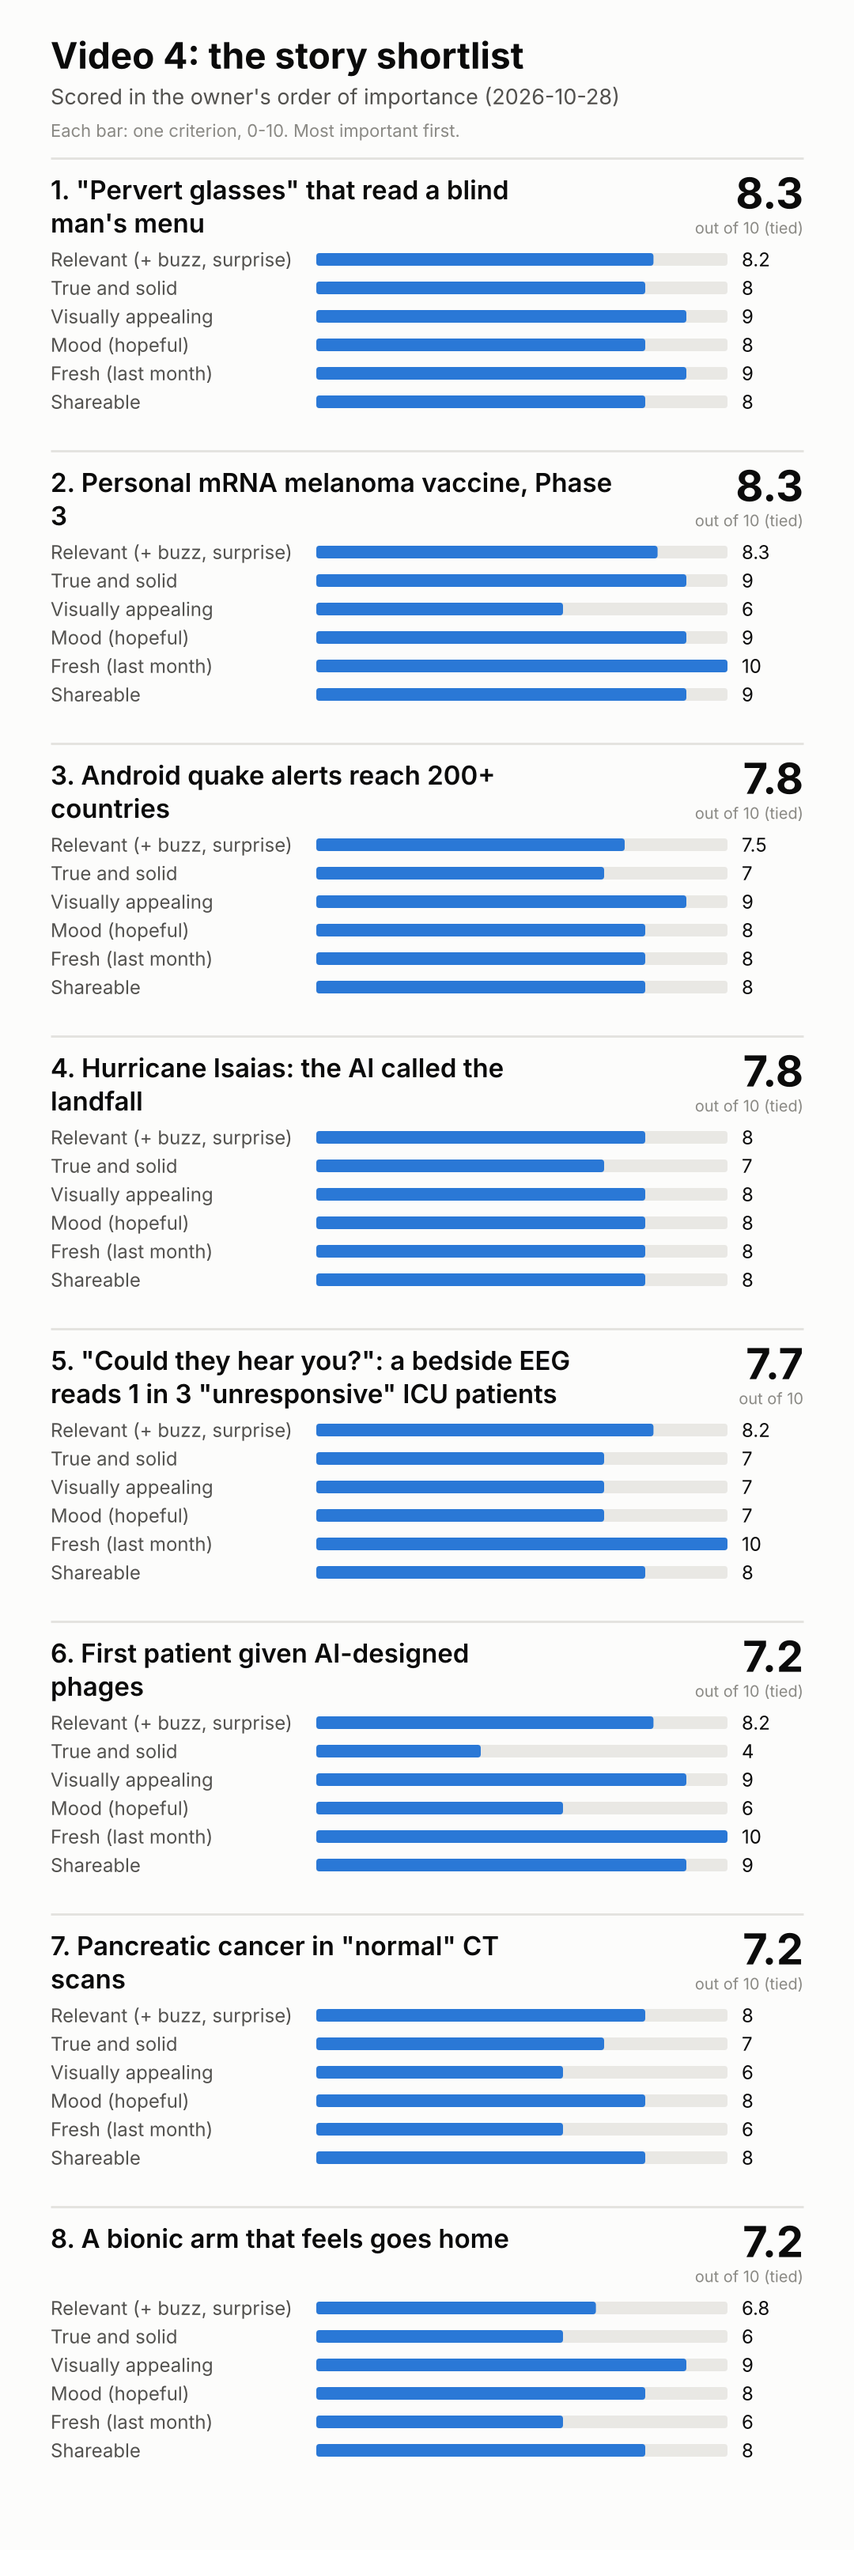
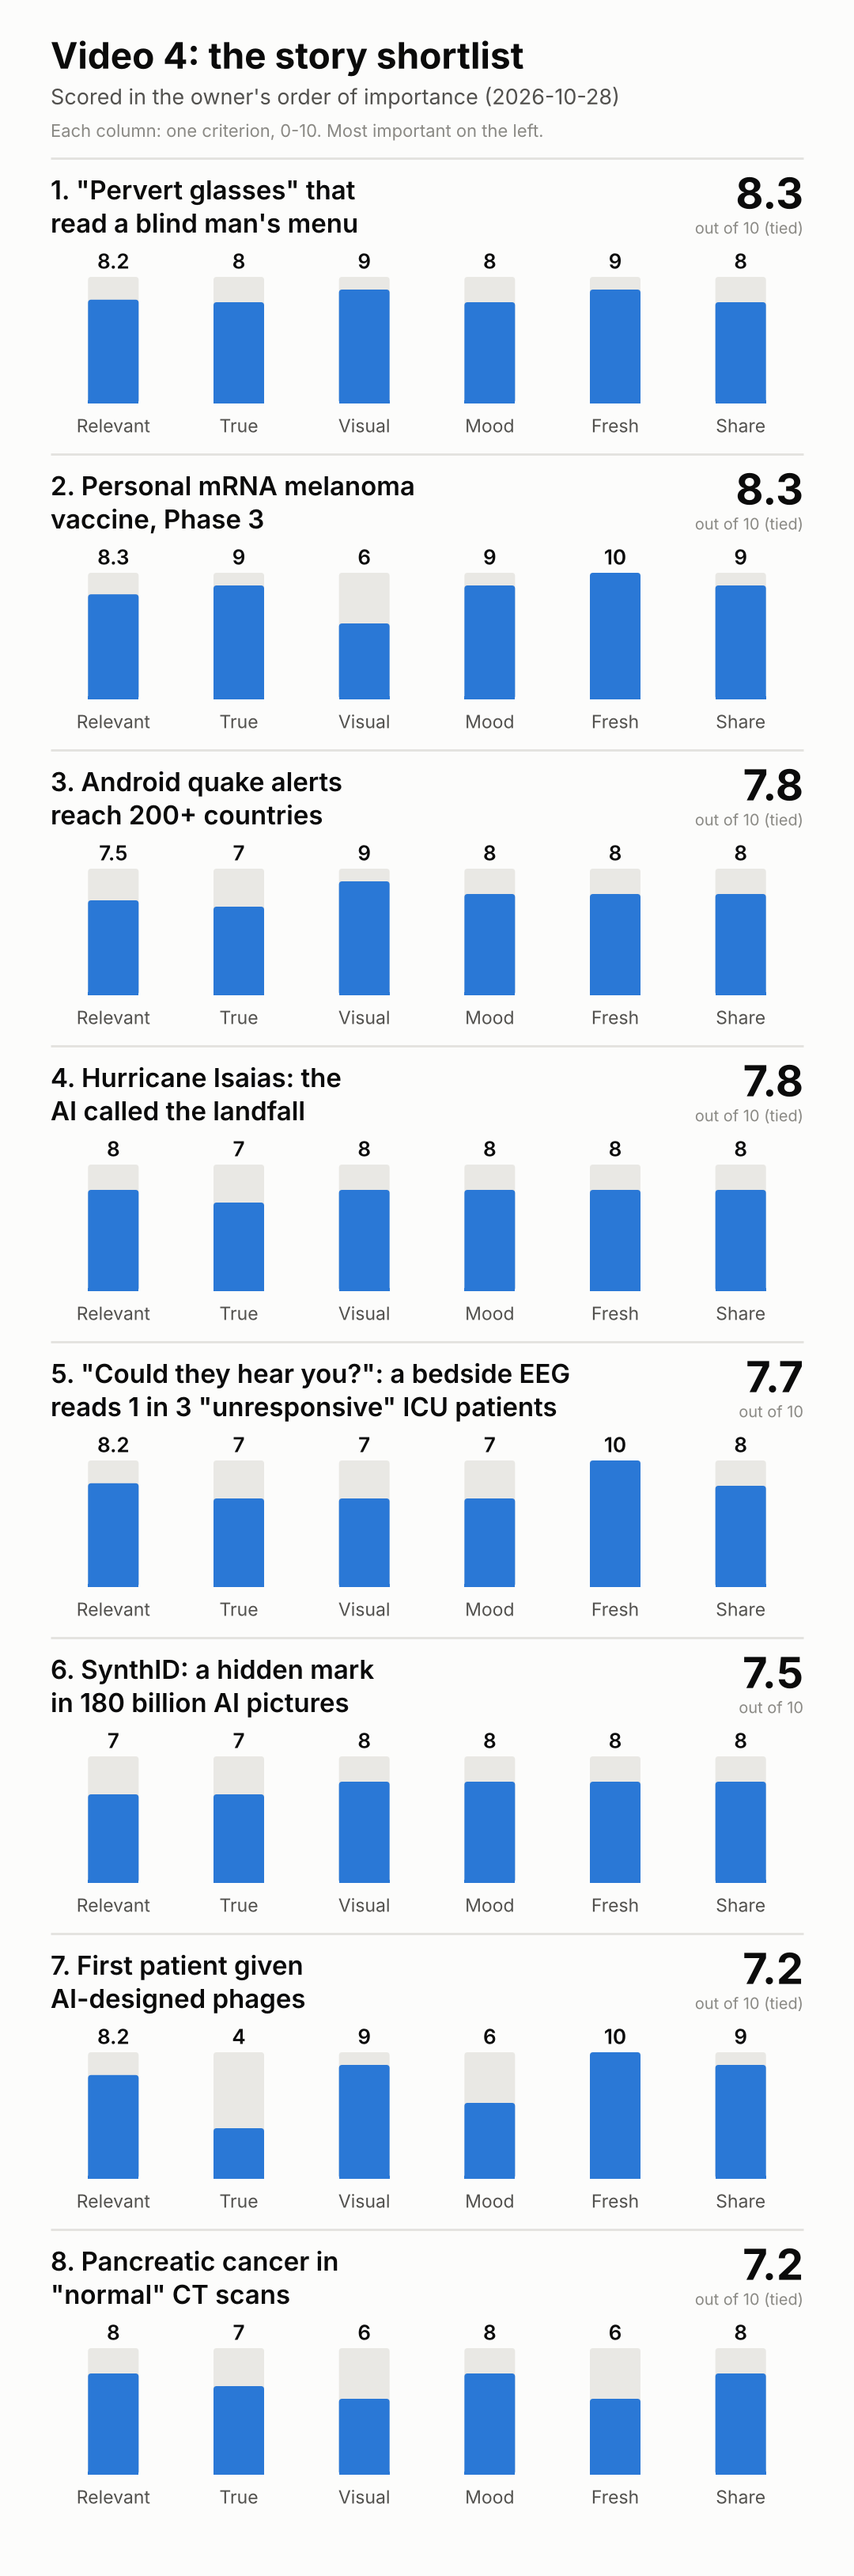
Topic chart as columns (owner: "make the visual into column chart"); v3's never-baity lesson applied to the v4 shortlist (the glasses' line reworded as news; ad-or-news check in TOPIC_CRITERIA); the owner's two Google suggestions scored (SynthID 7.48, Gemini 4 Carbon 5.90)
Claude-Session: https://claude.ai/code/session_01XBbv5cud3NnzxxSLqPjWNt

diff --git a/video/scripts/topic_chart.py b/video/scripts/topic_chart.py
@@ -1,13 +1,15 @@
 #!/usr/bin/env python3
-"""The topic shortlist as a phone-portrait chart (owner, 2026-10-28: "show me the visual next time we do research -
-like the story and some bar chart ... showing the score on each category").
+"""The topic shortlist as a phone-portrait column chart (owner, 2026-10-28: "show me the visual next time we do research -
+like the story and some bar chart ... showing the score on each category"; then "make the visual into column chart").
 
   python3 scripts/topic_chart.py docs/vN/topic_scores.json docs/vN/topic_chart.png [--top 8]
 
-The JSON: {"title", "subtitle", "criteria": [{"key", "label", "weight"}] in the order of importance,
+The JSON: {"title", "subtitle", "criteria": [{"key", "label", "short", "weight"}] in the order of importance,
 "stories": [{"rank", "name", "scores": {key: 0-10}, "total"}]}. One block per story: its name and weighted score, then
-one bar per criterion (0-10, the value printed). One series, so one colour and no legend; the criterion labels carry
-the identity. Colours from the dataviz reference palette (series-1 on the light surface, validated).
+one column per criterion, most important on the left (0-10 on a light track, the value above it, the short label
+below). A name wraps to at most two balanced lines.
+One series, so one colour and no legend; the criterion labels carry the identity. Colours from the dataviz reference
+palette (series-1 on the light surface, validated).
 """
 import json
 import sys
@@ -16,31 +18,42 @@ import textwrap
 import matplotlib
 matplotlib.use('Agg')
 import matplotlib.pyplot as plt
-from matplotlib.patches import FancyBboxPatch
+from matplotlib.patches import FancyBboxPatch, Rectangle
 
 SURFACE, INK, INK2, MUTED = '#fcfcfb', '#0b0b0b', '#52514e', '#8a8984'
 BAR, TRACK, RULE = '#2a78d6', '#e9e8e4', '#e3e2de'
 W, PAD, DPI = 1080, 64, 100
-LABEL_X, TRACK_X, TRACK_W = PAD, 400, 520
-ROW, BAR_H = 36, 16
+COL_W, PLOT_H, R = 64, 160, 4
+NAME_H, HEADROOM, FOOT = 110, 40, 64
 
 
 def pt(px):
     return px * 72 / DPI
 
 
+def column(ax, cx, base, h, colour):
+    """A column anchored to the baseline: rounded top, square bottom."""
+    h = max(h, 2 * R)
+    ax.add_patch(FancyBboxPatch((cx - COL_W / 2, base - h), COL_W, h, boxstyle=f'round,pad=0,rounding_size={R}',
+                                fc=colour, ec='none'))
+    ax.add_patch(Rectangle((cx - COL_W / 2, base - R), COL_W, R, fc=colour, ec='none'))
+
+
 def draw(data, out, top):
     crit, stories = data['criteria'], data['stories'][:top]
     blocks = []
     for s in stories:
-        lines = textwrap.wrap(f"{s['rank']}. {s['name']}", 40)
+        name = f"{s['rank']}. {s['name']}"
+        fits = [textwrap.wrap(name, w) for w in range(24, 41)]
+        fits = [ls for ls in fits if len(ls) <= 2]
+        lines = min(fits, key=lambda ls: max(map(len, ls))) if fits else textwrap.wrap(name, 40)
         if len(lines) > 2:
             lines = lines[:2]
             lines[1] = lines[1][:37].rstrip() + '...'
         blocks.append(lines)
     head = 200
-    heights = [max(len(b), 2) * 42 + 26 + len(crit) * ROW + 44 for b in blocks]
-    H = head + sum(heights) + PAD
+    block_h = NAME_H + HEADROOM + PLOT_H + FOOT
+    H = head + len(stories) * block_h + PAD
     fig = plt.figure(figsize=(W / DPI, H / DPI), dpi=DPI, facecolor=SURFACE)
     ax = fig.add_axes([0, 0, 1, 1])
     ax.set_xlim(0, W)
@@ -50,32 +63,32 @@ def draw(data, out, top):
 
     ax.text(PAD, 70, data.get('title', 'Story shortlist'), fontsize=pt(46), fontweight='bold', color=INK, va='center', **font)
     ax.text(PAD, 122, data.get('subtitle', ''), fontsize=pt(27), color=INK2, va='center', **font)
-    ax.text(PAD, 165, 'Each bar: one criterion, 0-10. Most important first.', fontsize=pt(22), color=MUTED,
+    ax.text(PAD, 165, 'Each column: one criterion, 0-10. Most important on the left.', fontsize=pt(22), color=MUTED,
             va='center', **font)
 
+    slot = (W - 2 * PAD) / len(crit)
     y = head
-    for s, lines, h in zip(stories, blocks, heights):
+    for s, lines in zip(stories, blocks):
         ax.plot([PAD, W - PAD], [y, y], color=RULE, lw=2, solid_capstyle='butt')
-        ty = y + 40
         for i, ln in enumerate(lines):
-            ax.text(PAD, ty + i * 42, ln, fontsize=pt(33), fontweight='semibold', color=INK, va='center', **font)
+            ax.text(PAD, y + 40 + i * 42, ln, fontsize=pt(33), fontweight='semibold', color=INK, va='center', **font)
         ax.text(W - PAD, y + 44, f"{s['total']:.1f}", fontsize=pt(54), fontweight='bold', color=INK, ha='right',
                 va='center', **font)
         tied = any(o is not s and f"{o['total']:.1f}" == f"{s['total']:.1f}" for o in stories)
         ax.text(W - PAD, y + 88, 'out of 10' + (' (tied)' if tied else ''), fontsize=pt(20), color=MUTED, ha='right',
                 va='center', **font)
-        ry = y + max(len(lines), 2) * 42 + 26 + ROW / 2
-        for c in crit:
+        base = y + NAME_H + HEADROOM + PLOT_H
+        for j, c in enumerate(crit):
             v = float(s['scores'][c['key']])
-            ax.text(LABEL_X, ry, c['label'], fontsize=pt(24), color=INK2, va='center', **font)
-            ax.add_patch(FancyBboxPatch((TRACK_X, ry - BAR_H / 2), TRACK_W, BAR_H,
-                                        boxstyle='round,pad=0,rounding_size=4', fc=TRACK, ec='none'))
+            cx = PAD + slot * (j + 0.5)
+            column(ax, cx, base, PLOT_H, TRACK)
             if v > 0:
-                ax.add_patch(FancyBboxPatch((TRACK_X, ry - BAR_H / 2), max(TRACK_W * v / 10, 8), BAR_H,
-                                            boxstyle='round,pad=0,rounding_size=4', fc=BAR, ec='none'))
-            ax.text(TRACK_X + TRACK_W + 18, ry, f'{v:g}', fontsize=pt(24), color=INK, va='center', **font)
-            ry += ROW
-        y += h
+                column(ax, cx, base, PLOT_H * v / 10, BAR)
+            ax.text(cx, base - PLOT_H - 20, f'{v:g}', fontsize=pt(26), fontweight='semibold', color=INK,
+                    ha='center', va='center', **font)
+            ax.text(cx, base + 28, c.get('short') or c['label'].split()[0], fontsize=pt(23), color=INK2, ha='center',
+                    va='center', **font)
+        y += block_h
     fig.savefig(out, dpi=DPI, facecolor=SURFACE)
     print(f'{out}: {len(stories)} stories, {W}x{H}px')
 

diff --git a/video/docs/v4/G0_TOPICS_r4.md b/video/docs/v4/G0_TOPICS_r4.md
@@ -231,3 +231,36 @@ two-week window, so it is rescaled to the month (9-8 -> 10, 7 -> 9, 6 -> 8, 5 ->
 | 21 | Florida's AI mosquito trap | 5.5 | 3 | 7 | 6 | 10 | 4 | **5.62** |
 | 22 | UCLA MAESTRO prostate-cancer drug pair | 5.2 | 3 | 5 | 5 | 10 | 4 | **5.01** |
 | 23 | OpenAI's math and physics "discoveries" | 5.7 | 3 | 4 | 4 | 10 | 5 | **4.87** |
+
+## Ad or news? (v3's lesson, applied 2026-10-28 ~17:00 UTC)
+
+The playbook's never-baity rule (Audience and goal; v3 opened like an ad, "Buying a laptop soon?", and 64.5 % skipped):
+each line heard cold over its first frame.
+- **The glasses: ad risk, reworded.** "Chris, who's blind, calls them life-changing" plus "Its AI reads him the menu" is
+  a customer testimonial plus a feature demo over the product: how smart glasses are advertised. As news (what
+  happened, then why it matters): **"Australia's health minister says camera glasses serve 'no useful purpose'. Chris,
+  who's blind, uses his to read the menu."** (Butler's words and Chris Edwards's menu: the fact check above.) Frame 0 is
+  the fight (a ban sign at a pool gate), never the product; no brand.
+- **The vaccine: news.** "A vaccine made from your own cancer just passed its biggest test": what happened; nothing to buy.
+- **The hurricane: news** (an event, two forecasts). **"Could they hear you?": news.**
+- **Quake alerts: ad risk** (a phone feature launch, sourced from Google itself): only with a real quake moment.
+
+## Two owner-suggested candidates (2026-10-28 ~17:21 UTC; Google's two posts read, scored by the orchestrator)
+
+| Story | Relevant | True | Visual | Mood | Fresh | Share | Score |
+|---|---|---|---|---|---|---|---|
+| SynthID: a hidden mark in 180 billion AI pictures | 7 | 7 | 8 | 8 | 8 | 8 | **7.48** (6th) |
+| Gemini 4 Carbon, Google's new model | 6 | 6 | 4 | 6 | 10 | 4 | **5.90** |
+
+- **SynthID** (blog.google, 15 Oct: TIME put it on its Best Inventions list): the invisible watermark Google's AI puts in
+  the images, video, audio and text it makes; "more than 180 billion images and videos" and "240,000 years of audio"
+  marked (Google's counts). Anyone can check a picture in the Gemini app, Search, Chrome or synthid.com. Good: easy for
+  people, useful (fakes worry everyone), very drawable (a hidden mark that lights up, like a banknote's watermark held to
+  the light). Limits: it finds only marks from Google and its partners, so "no mark" proves nothing; the news peg is an
+  award (the tool dates from 2023); a how-to-use-it video reads as a Google ad. Told as news: "180 billion AI pictures
+  carry a mark you can't see", with "no mark doesn't mean it's real" as the honest turn.
+- **Gemini 4 Carbon** (blog.google, 28 Oct): Google's "strongest model", built for cybersecurity and for tasks that run
+  "for days"; #1 on one independent index (Artificial Analysis); fewer unsupported claims (Google's numbers). Not for
+  people yet: a subset of cyber defenders first, no consumer app, no date. Weak for v4: nothing for people to try,
+  Google's own benchmarks, mostly code (hard to draw), and a model launch reads as an ad. Revisit if it reaches the
+  Gemini app with something people can do.

diff --git a/video/docs/v4/OWNER_NOTES.md b/video/docs/v4/OWNER_NOTES.md
@@ -85,10 +85,24 @@ Concrete notes on this one video: picks, lines, takes, shots. Approach-level les
   -> rule: Taste signals (the owner's order).
 - 2026-10-28 ~16:35 UTC: "reevaluate the stories based on that - all N stories you researched" -> all 23 candidates of
   rounds 3-4 re-ranked from the editors' scores in the owner's order (`G0_TOPICS_r4.md`, last table).
-- 2026-10-28 ~16:45 UTC: "can you show me the visual next time we do research - like the story and some bar chart or
+- 2026-10-28 ~15:50 UTC: "can you show me the visual next time we do research - like the story and some bar chart or
   something showing the score on each category" -> `video/scripts/topic_chart.py` (one block per story, a bar per
   criterion, the weighted total); a sample from this round: `topic_chart.png` (data `topic_scores.json`). -> rule:
   Taste signals (the shortlist comes with its chart); PIPELINE_V2 G0.
-- 2026-10-28 ~16:50 UTC: "lets move the freshness lower and make it last month or so" -> order now relevant, true,
+- 2026-10-28 ~15:51 UTC: "lets move the freshness lower and make it last month or so" -> order now relevant, true,
   visual, mood, fresh (about the last month), shareable; re-ranked: the glasses 8.34, the vaccine 8.32 (tied), quake
   alerts 7.81, the hurricane 7.76, "could they hear you?" 7.68. -> rule: Taste signals; CREATIVE_BRIEF banner.
+- 2026-10-28 ~16:52 UTC (with the two notes above re-sent): "make the visual into column chart and read the latest
+  update in our repo - we committed an updated learnings from the video 3" -> `topic_chart.py` draws one column per
+  criterion (the most important on the left, the value above, the short label below); v3's lesson read (playbook,
+  Audience and goal: never baity; v3's ad-like opening, 64.5 % skipped) and applied to the shortlist (`G0_TOPICS_r4.md`,
+  "Ad or news?"): the glasses' line read like an ad (a testimonial plus a feature demo) and is reworded as news; the
+  vaccine, hurricane and ICU lines pass; quake alerts are a phone-feature launch. -> rule: playbook Taste signals (the
+  column chart); TOPIC_CRITERIA (the ad-or-news check).
+- 2026-10-28 ~17:21 UTC: "maybe one thing we can do is something about the new model released?
+  [blog.google/innovation-and-ai/models-and-research/gemini-models/introducing-gemini-4-carbon/] like if there is
+  something geniunely interesting and easy to get for people? also what about this news?
+  [blog.google/innovation-and-ai/models-and-research/google-deepmind/synthid-time-best-inventions/]" -> both read and
+  scored (`G0_TOPICS_r4.md`, "Two owner-suggested candidates"): SynthID 7.48 (anyone can check a picture; very
+  drawable; but it finds only Google's own marks, the peg is an award, the counts are Google's); Gemini 4 Carbon 5.90
+  (not for people yet: cyber defenders first; Google's own benchmarks; a launch reads as an ad).

diff --git a/video/docs/TOPIC_CRITERIA.md b/video/docs/TOPIC_CRITERIA.md
@@ -4,8 +4,13 @@ The one list the G0 editor scores every candidate on (1-10 each) and the owner s
 order of importance** (2026-10-28: "lets make it relevant first but include buzz here too and surprise, then true and
 solid, then fresh, then visually appealing, then mood. Then shareabliity potential"; then "lets move the freshness lower
 and make it last month or so"). The weighted score is (6 x 1 + 5 x 2 + 4 x 3 + 3 x 4 + 2 x 5 + 1 x 6) / 21, out of 10;
-`video/scripts/topic_chart.py` draws it for the owner (every shortlist comes with that chart). A story that isn't true is out whatever it scores (the
+`video/scripts/topic_chart.py` draws it for the owner as a column chart (every shortlist comes with it). A story that isn't true is out whatever it scores (the
 master brief: "substance is non-negotiable").
+
+**Never baity** (playbook, Audience and goal): each proposed core line is heard cold over its first frame: "ad or
+news?". A line that sounds like a commercial (a sales question, a testimonial, a feature demo, the product as the first
+picture) is reworded as news (what happened, then why it matters) or the story is out. A company's launch or a gadget
+story starts with ad risk (v3 opened like an ad: 64.5 % skipped).
 
 1. **Relevant, with buzz and surprise (weight 6):** a big question millions care about, with a concrete "so what" for
    an ordinary person; people are already talking about it (the "fuss"); a "wait, seriously?" fact or a twist. Tech,

diff --git a/video/docs/OWNER_PLAYBOOK.md b/video/docs/OWNER_PLAYBOOK.md
@@ -253,8 +253,9 @@ Maintenance at the end).
   be possible to make visually appealing ... give me the list of criteria"; then "lets make it relevant first but
   include buzz here too and surprise, then true and solid, then fresh, then visually appealing, then mood. Then
   shareabliity potential"; "lets move the freshness lower and make it last month or so", v4, 2026-10-28). The
-  shortlist always comes with its chart: each story's score on each criterion (`video/scripts/topic_chart.py`; "can
-  you show me the visual next time we do research ... some bar chart", v4, 2026-10-28).
+  shortlist always comes with its column chart: for each story a column per criterion, the most important on the left
+  (`video/scripts/topic_chart.py`; "can you show me the visual next time we do research ... some bar chart"; "make the
+  visual into column chart", v4, 2026-10-28).
 - **Topics: alternate the mood: a positive story after a negative one.** v2 (Google staff resigning), v3 (laptop
   prices) and v4's first pick (AI songs and fake plays) were all bad news, so the next is a very recent, highly
   relevant, genuinely POSITIVE AI story (e.g. AI helping find a medicine or beat a disease) with a hopeful outlook.

diff --git a/video/docs/PIPELINE_V2.md b/video/docs/PIPELINE_V2.md
@@ -66,7 +66,7 @@ Quality and output value come first, spent where it reaches the film. Ideas are 
   stories: playbook "Taste signals", owner 2026-10-28). When the owner names no topic, two scouts (about 15 searches
   each, each writing its file from its first step) cover the beats the brief asks for, and one editor judges them
   on `docs/TOPIC_CRITERIA.md` (the owner's order: relevance with buzz and surprise first; an untrue story is out; scores in its file), fact-checks the top 3 against their sources and drafts
-  each one's core line (G0.5 bullet), so the owner picks the topic and its line on one screen, with the chart
+  each one's core line (G0.5 bullet), so the owner picks the topic and its line on one screen, with the column chart
   of every story's score on each criterion (`video/scripts/topic_chart.py`, owner 2026-10-28). When the owner names
   the topic, one agent researches its biggest true framing (playbook: the hook). Then one research-and-fact-lock agent
   (about 20 searches) writes `docs/vN/research/factlock.md`: the only web check of the facts; every later check reads
